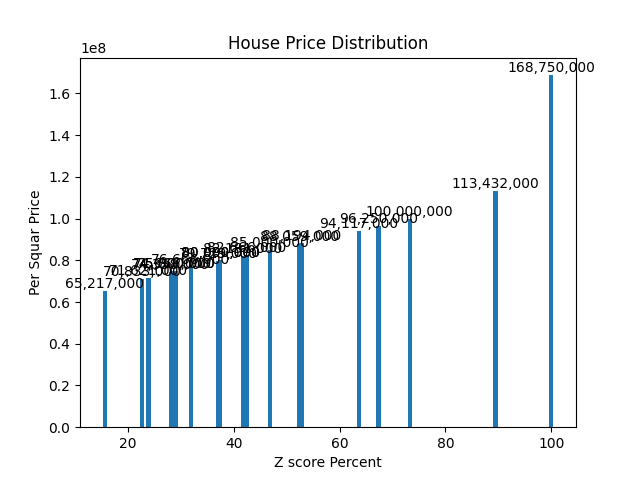
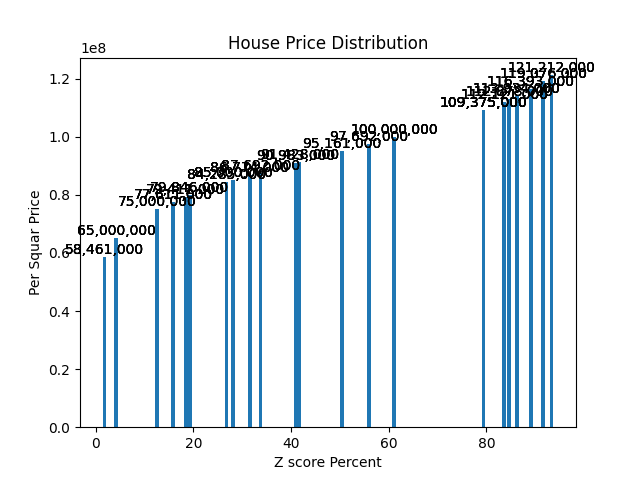
add some change

diff --git a/cmd/jobs/database/mysql.go b/cmd/jobs/database/mysql.go
@@ -18,8 +18,9 @@ type SqlConfig struct {
 }
 
 const (
-	DBName    = "words"
-	TableName = "house_price"
+	DBName          = "words"
+	TableName       = "house_price"
+	targetTableName = "house_price_tehran_parse_gharbi"
 )
 
 type CreateTime struct {
@@ -79,7 +80,7 @@ func CheckTableTime() {
 func CopyTable(tableName string) error {
 	currentTimeUnix := time.Now().Unix()
 
-	var copyTableQuery = fmt.Sprintf("create table house_price_majidieh_%v as select * from house_price", currentTimeUnix)
+	var copyTableQuery = fmt.Sprintf("create table %v_%v as select * from house_price", targetTableName, currentTimeUnix)
 	_, err := DBConnection.Query(copyTableQuery)
 
 	if err != nil {

diff --git a/cmd/jobs/web_crawler/house_crawler/house_crawler.go b/cmd/jobs/web_crawler/house_crawler/house_crawler.go
@@ -30,8 +30,8 @@ func main() {
 	var totalSquarePrice int
 	var persquarPrice int
 
-	// _, _, maskanURL := httpGet("https://divar.ir/s/tehran/buy-apartment/west-tehran-pars?size=60-70", "maskanurls")  // tehran pars gharib.
-	_, _, maskanURL := httpGet("https://divar.ir/s/tehran/buy-residential/majid-abad?size=65-80", "maskanurls")
+	_, _, maskanURL := httpGet("https://divar.ir/s/tehran/buy-apartment/west-tehran-pars?size=60-70", "maskanurls") // tehran pars gharib.
+	// _, _, maskanURL := httpGet("https://divar.ir/s/tehran/buy-residential/majid-abad?size=65-80", "maskanurls")
 	ids, links := mysqlconnector.SelectHousePrice()
 
 	if len(ids) < 2 {

diff --git a/cmd/jobs/price_analyzes/price_analyzes.go b/cmd/jobs/price_analyzes/price_analyzes.go
@@ -30,7 +30,7 @@ type SqlConfig struct {
 
 const (
 	DBName    = "words"
-	TableName = "house_price_1739484998"
+	TableName = "house_price"
 )
 
 type TableInfo struct {
